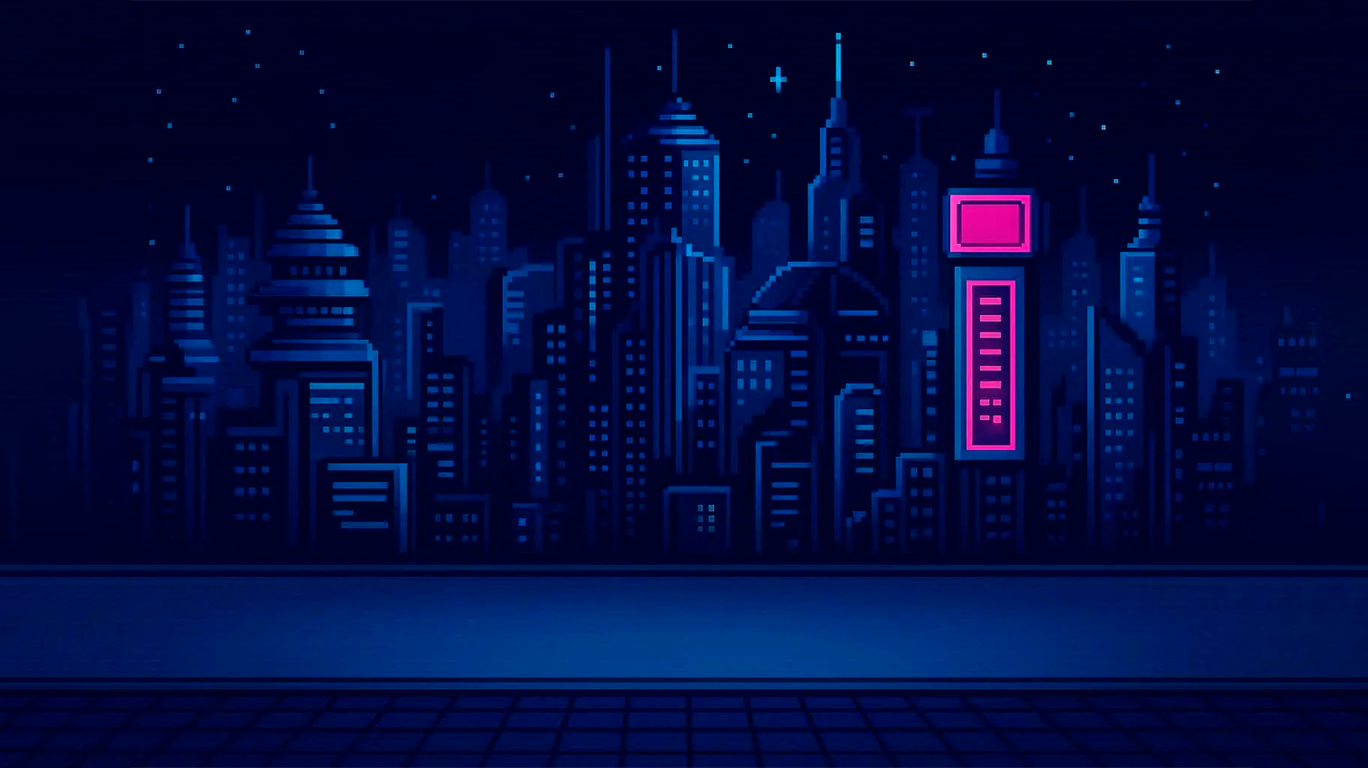
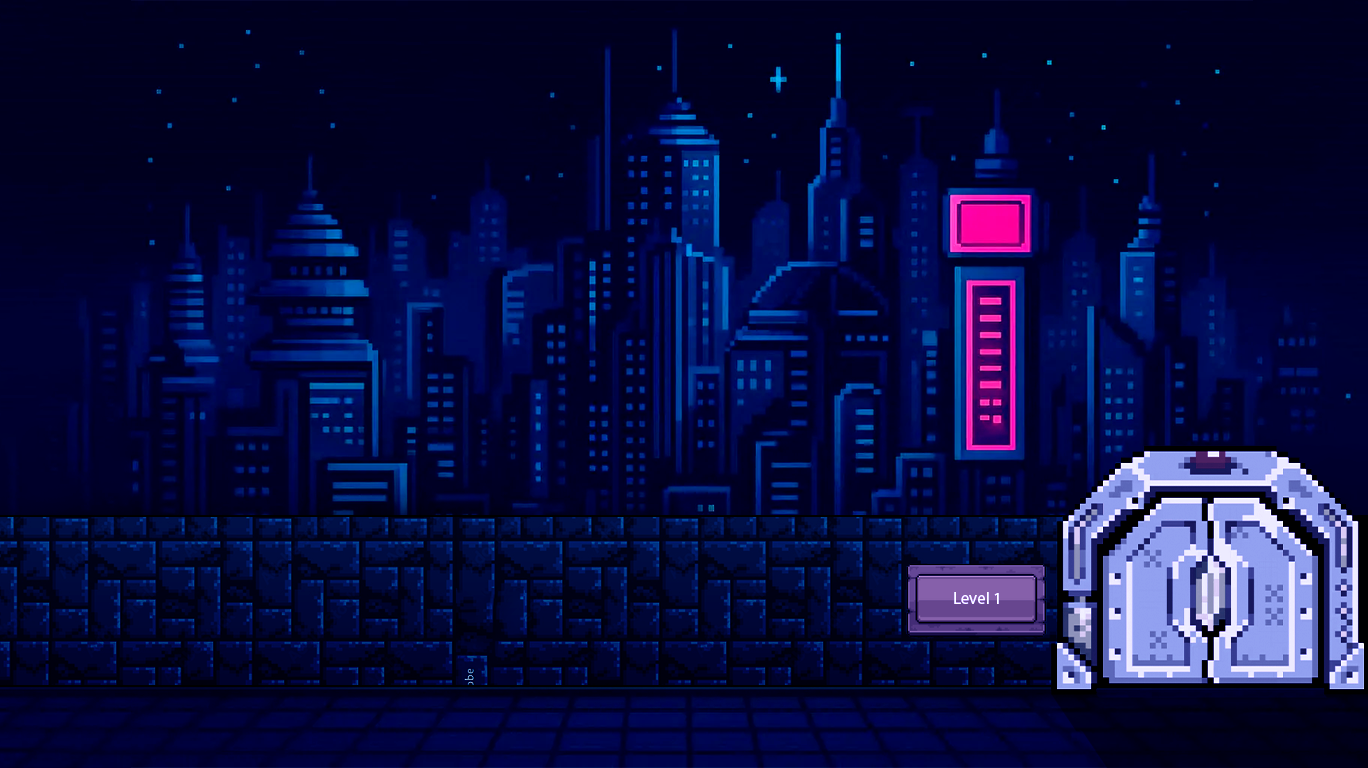
[feat] - Update Cenary

Changed region(s): [[0.0, 0.5625, 1.0, 1.0], [0.6754, 0.25, 0.7675, 0.3438], [0.7061, 0.5, 0.7368, 0.5312]]

diff --git a/main.c b/main.c
@@ -3,6 +3,7 @@
 #include <raylib.h>
 
 typedef struct {
+    float x;
     float y;
     float velY;
     int facingRight;
@@ -14,15 +15,18 @@ void updateJump(Player *player, float groundY) {
     const float gravity = 0.6f;
     const float jumpForce = -12.0f;
 
+    // Inicia o pulo
     if (IsKeyPressed(KEY_SPACE) && !player->isJumping && !player->agachado) {
         player->isJumping = 1;
         player->velY = jumpForce;
     }
 
+    // Atualiza posição no ar
     if (player->isJumping) {
         player->y += player->velY;
         player->velY += gravity;
 
+        // Volta ao chão
         if (player->y >= groundY) {
             player->y = groundY;
             player->velY = 0;
@@ -46,69 +50,67 @@ int main() {
     Texture2D spriteAgachandoRight = LoadTexture("./assets/characterAgachandoRight.png");
 
     float groundY = screenHeight - spriteLeft.height + 250;
+    float speed = 5.0f; // velocidade horizontal
 
+    // Corrigido: x, y, velY, facingRight, agachado, isJumping
     Player player = {
-        groundY,
-        0.0f,
-        1,
-        0,
-        0
+        screenWidth / 2.0f,  // Começa centralizado
+        groundY,             // Posição no chão
+        0.0f,                // Velocidade vertical
+        1,                   // Virado pra direita
+        0,                   // Não agachado
+        0                    // Não pulando
     };
-
-    float bgScroll = 0.0f;
-    float bgSpeed = 6.0f;
 
     SetTargetFPS(60);
 
     while (!WindowShouldClose()) {
-
+        // ---- MOVIMENTO HORIZONTAL ----
         if (IsKeyDown(KEY_D)) {
-            bgScroll -= bgSpeed;
+            player.x += speed;
             player.facingRight = 1;
         }
         if (IsKeyDown(KEY_A)) {
-            bgScroll += bgSpeed;
+            player.x -= speed;
             player.facingRight = 0;
         }
 
-        if (bgScroll <= -bg.width) bgScroll = 0;
-        if (bgScroll >= bg.width) bgScroll = 0;
-
+        // ---- AGACHAR ----
         if (IsKeyDown(KEY_C))
             player.agachado = 1;
         else
             player.agachado = 0;
 
+        // ---- PULO ----
         updateJump(&player, groundY);
 
+        // ---- DESENHO ----
         BeginDrawing();
         ClearBackground(BLACK);
+        DrawTexture(bg, 0, 0, WHITE);
 
-        DrawTexture(bg, bgScroll, 0, WHITE);
-        DrawTexture(bg, bgScroll + bg.width, 0, WHITE);
-
-        float playerX = screenWidth / 2.0f - spriteRight.width / 2.0f;
-
+        // Escolhe sprite conforme estado
         if (player.isJumping) {
             if (player.facingRight)
-                DrawTexture(spriteJumpRight, playerX, player.y, WHITE);
+                DrawTexture(spriteJumpRight, player.x, player.y, WHITE);
             else
-                DrawTexture(spriteJumpLeft, playerX, player.y, WHITE);
+                DrawTexture(spriteJumpLeft, player.x, player.y, WHITE);
         } else if (player.agachado) {
             if (player.facingRight)
-                DrawTexture(spriteAgachandoRight, playerX, player.y, WHITE);
+                DrawTexture(spriteAgachandoRight, player.x, player.y, WHITE);
             else
-                DrawTexture(spriteAgachandoLeft, playerX, player.y, WHITE);
+                DrawTexture(spriteAgachandoLeft, player.x, player.y, WHITE);
         } else {
             if (player.facingRight)
-                DrawTexture(spriteRight, playerX, player.y, WHITE);
+                DrawTexture(spriteRight, player.x, player.y, WHITE);
             else
-                DrawTexture(spriteLeft, playerX, player.y, WHITE);
+                DrawTexture(spriteLeft, player.x, player.y, WHITE);
         }
 
         EndDrawing();
     }
 
+    // ---- LIMPEZA ----
     UnloadTexture(bg);
     UnloadTexture(spriteLeft);
     UnloadTexture(spriteRight);
@@ -116,7 +118,7 @@ int main() {
     UnloadTexture(spriteJumpRight);
     UnloadTexture(spriteAgachandoLeft);
     UnloadTexture(spriteAgachandoRight);
-
     CloseWindow();
+
     return 0;
 }
